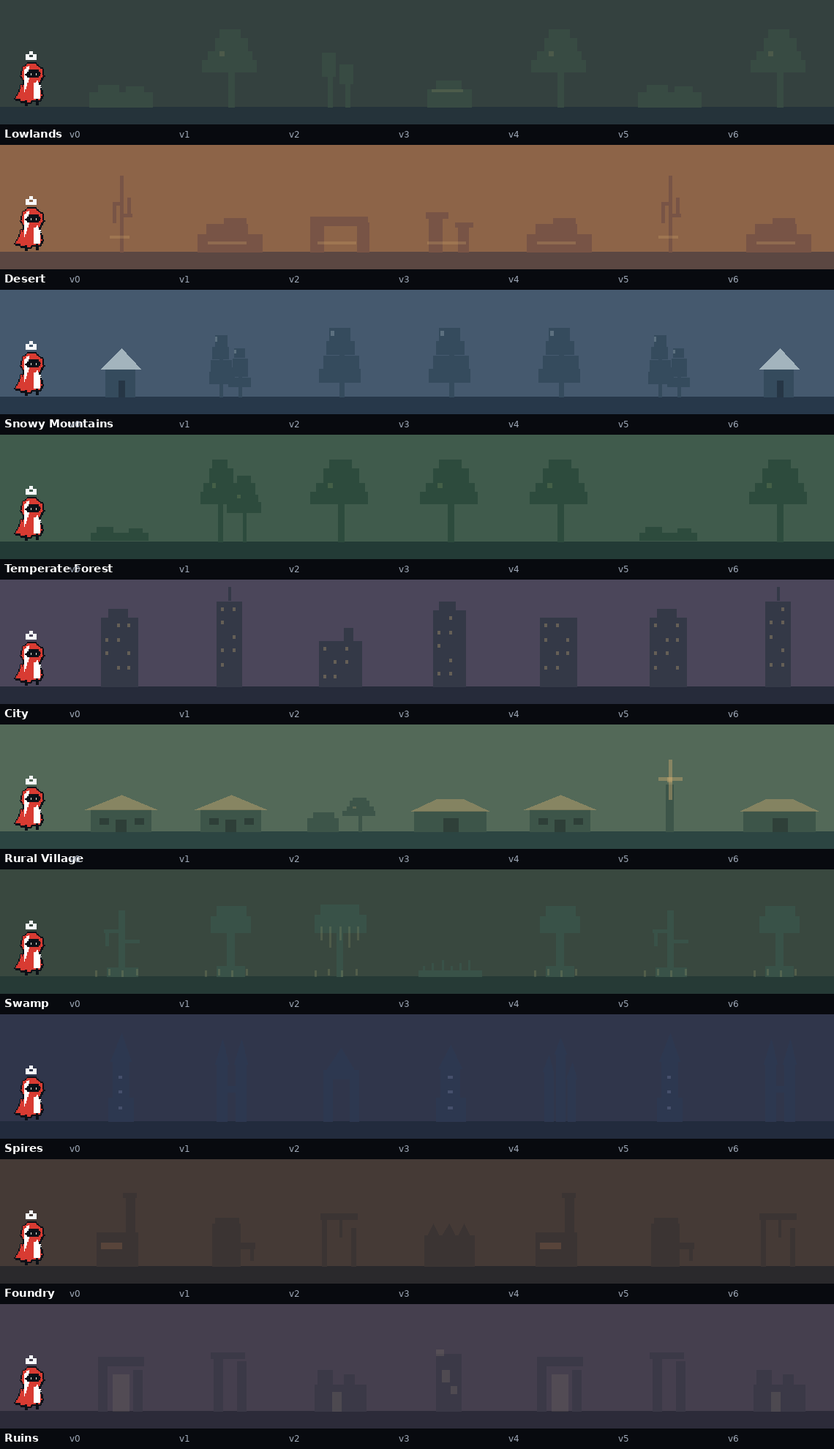
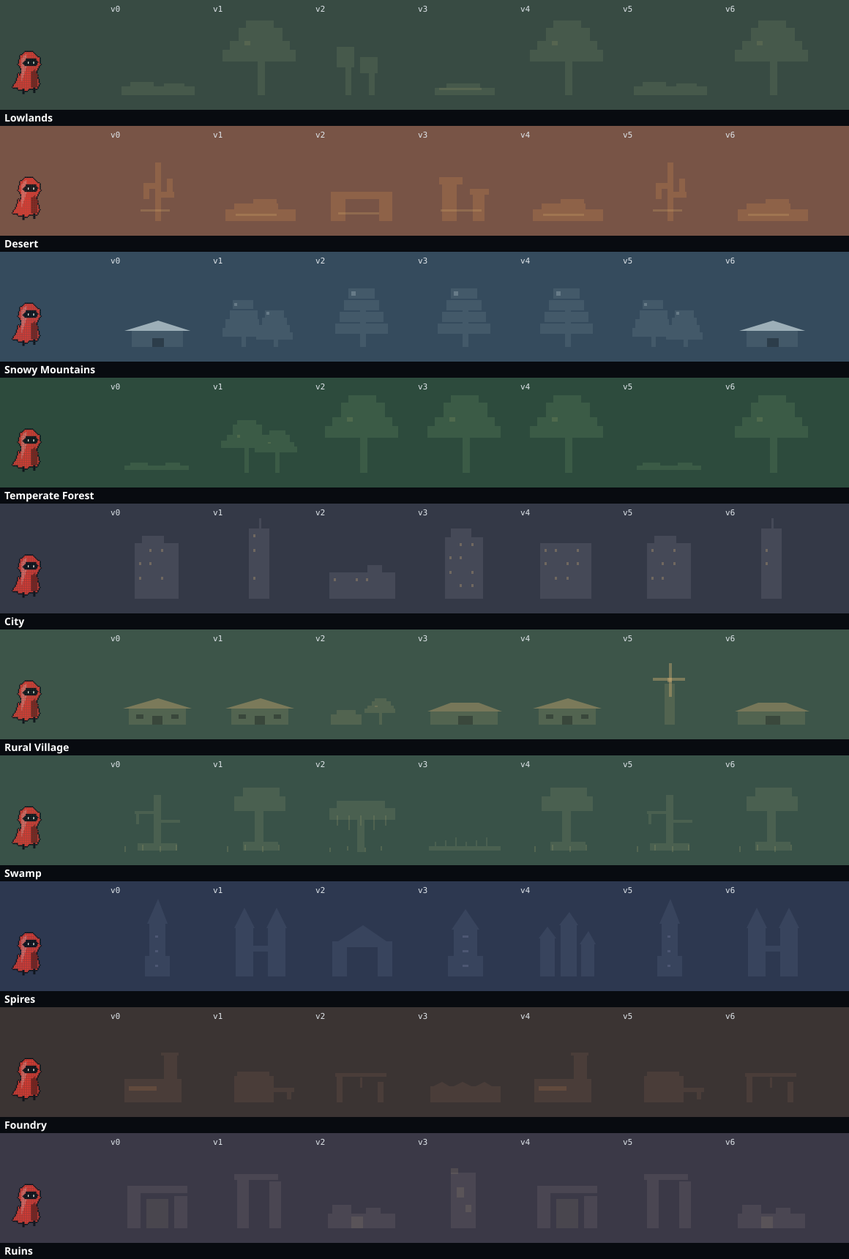
Refine biome asset scaling and placement
- replace independent width/height randomization with aspect-locked motif sizing
- use one uniform zoom/viewport scalar so assets cannot stretch across camera changes
- distribute scenery through jittered slots instead of unconstrained random clumps
- ground far landmarks behind ridge/foothill silhouettes
- tighten built-environment baselines while allowing subtle natural terrain jitter
- weight rare landmark variants such as windmills and chalets
- reduce repetitive Spires and Rural Village density
- regenerate renderer-derived biome scale and asset catalog sanity sheets
- keep mechanical biome profiles and terrain generation unchanged

diff --git a/components/biomeBackground.ts b/components/biomeBackground.ts
@@ -8,7 +8,7 @@ const RIDGE_SEGMENTS = 8;
 const NS_FAR=0x464152, NS_MID=0x4d4944, NS_NEAR=0x4e4541, NS_FORE=0x464f52;
 
 type Layer = 'far'|'mid'|'near'|'foreground';
-interface FeatureDescriptor { x:number; width:number; height:number; variant:number; offsetY:number; }
+interface FeatureDescriptor { x:number; scale:number; variant:number; yJitter:number; flipX:boolean; }
 interface BackgroundChunkDescriptor { chunkIndex:number; layer:Layer; ridge:number[]; features:FeatureDescriptor[]; }
 interface BackgroundDrawOptions { cameraCenterX:number; cameraCenterY:number; cameraScale:number; cssWidth:number; cssHeight:number; worldSeed:number; }
 
@@ -17,6 +17,25 @@ const namespaceForLayer=(layer:Layer)=>layer==='far'?NS_FAR:layer==='mid'?NS_MID
 const dominantBiome=(sample:BiomeSample):BiomeId=>sample.secondary&&sample.blend>=.5?sample.secondary:sample.primary;
 const snap=(v:number,g=2)=>Math.round(v/g)*g;
 function rgba(hex:string,alpha:number){const h=hex.replace('#','');const r=parseInt(h.slice(0,2),16),g=parseInt(h.slice(2,4),16),b=parseInt(h.slice(4,6),16);return `rgba(${r}, ${g}, ${b}, ${alpha})`;}
+
+function visualVariantForBiome(biome:BiomeId,layer:Layer,hash:number):number{
+  // Landmark variants are intentionally weighted. Rare silhouettes (windmills, chalets, etc.)
+  // should punctuate a biome rather than repeat every few hundred pixels.
+  if(biome==='rural-village'&&layer!=='far'){
+    const choices=[0,1,2,3,4,6,0,1,2,3,4,6,0,1,2,5];
+    return choices[hash%choices.length];
+  }
+  if(biome==='snowy-mountains'&&layer!=='far'){
+    const choices=[1,2,3,4,5,1,2,3,4,5,6,2];
+    return choices[hash%choices.length];
+  }
+  if(biome==='desert'&&layer!=='far'){
+    const choices=[0,1,2,3,4,1,2,3,4,1];
+    return choices[hash%choices.length];
+  }
+  return hash%7;
+}
+
 function drawPixelDisc(ctx:CanvasRenderingContext2D,cx:number,cy:number,r:number,color:string){ctx.fillStyle=color;const rows=[.62,.86,1,1,.86,.62];for(let i=0;i<rows.length;i++){const hh=Math.max(2,Math.round((r*2)/rows.length)),ww=Math.round(r*2*rows[i]),yy=Math.round(cy-r+i*hh);ctx.fillRect(snap(cx-ww*.5),snap(yy),snap(ww),hh+1);}}
 
 export class BiomeBackgroundCache {
@@ -33,12 +52,32 @@ export class BiomeBackgroundCache {
   private generateChunk(layer:Layer,chunkIndex:number,seed:number):BackgroundChunkDescriptor{
     const namespace=namespaceForLayer(layer),ridge:number[]=[];
     for(let i=0;i<=RIDGE_SEGMENTS;i++){const globalNode=chunkIndex*RIDGE_SEGMENTS+i;ridge.push(.28+biomeRandom01(seed,namespace^0x726964,globalNode)*.58);}
-    const centerX=(chunkIndex+.5)*BACKGROUND_CHUNK_WIDTH,sample=getBiomeAtX(centerX,seed),biome=VISUAL_BIOMES[dominantBiome(sample)];
+    const centerX=(chunkIndex+.5)*BACKGROUND_CHUNK_WIDTH,sample=getBiomeAtX(centerX,seed),biomeId=dominantBiome(sample),biome=VISUAL_BIOMES[biomeId];
     const density=layer==='far'?biome.farDensity:layer==='mid'?biome.midDensity:layer==='near'?biome.nearDensity:biome.nearDensity*.55;
-    const minFeatures=layer==='far'?1:layer==='foreground'?1:2,maxFeatures=layer==='far'?3:layer==='foreground'?4:7;
-    const count=minFeatures+Math.floor(density*(maxFeatures-minFeatures)+biomeRandom01(seed,namespace,chunkIndex)*2);
+    const minFeatures=layer==='far'?0:layer==='foreground'?0:1;
+    const maxFeatures=layer==='far'?2:layer==='mid'?5:layer==='near'?4:2;
+    const count=Math.max(minFeatures,Math.min(maxFeatures,Math.round(
+      minFeatures+density*(maxFeatures-minFeatures)+(biomeRandom01(seed,namespace,chunkIndex)-.5)*.9
+    )));
     const features:FeatureDescriptor[]=[];
-    for(let i=0;i<count;i++){const k=chunkIndex*37+i;features.push({x:biomeRandom01(seed,namespace^0x78,k),width:.045+biomeRandom01(seed,namespace^0x77,k)*(layer==='near'?.13:.09),height:.16+biomeRandom01(seed,namespace^0x68,k)*(layer==='far'?.34:.5),variant:biomeHash(seed,namespace^0x76,k)%7,offsetY:(biomeRandom01(seed,namespace^0x79,k)-.5)*.08});}
+    // Place assets in jittered slots instead of independent random X positions. This keeps the
+    // procedural look while avoiding the accidental clumps/near-duplicates that made otherwise
+    // good silhouettes read like stretched stamps. Size is one scalar only; aspect ratio lives in
+    // the asset profile below and is therefore never randomized independently.
+    for(let i=0;i<count;i++){
+      const k=chunkIndex*37+i;
+      const slotCenter=(i+.5)/count;
+      const slotJitter=(biomeRandom01(seed,namespace^0x78,k)-.5)*Math.min(.7/count,.16);
+      const x=Math.max(.06,Math.min(.94,slotCenter+slotJitter));
+      const featureBiome=dominantBiome(getBiomeAtX(chunkIndex*BACKGROUND_CHUNK_WIDTH+x*BACKGROUND_CHUNK_WIDTH,seed));
+      features.push({
+        x,
+        scale:.86+biomeRandom01(seed,namespace^0x77,k)*.28,
+        variant:visualVariantForBiome(featureBiome,layer,biomeHash(seed,namespace^0x76,k)),
+        yJitter:biomeRandom01(seed,namespace^0x79,k)*2-1,
+        flipX:(biomeHash(seed,namespace^0x6d6972,k)&1)===1,
+      });
+    }
     return {chunkIndex,layer,ridge,features};
   }
 }
@@ -529,49 +568,115 @@ function drawSwamp(
   }
 }
 
-function scaleFeatureForBiome(
-  biome: BiomeId,
-  layer: Layer,
-  variant: number,
-  width: number,
-  height: number,
-): { width: number; height: number } {
-  let w = width, h = height;
-  if (biome === 'desert') {
-    if (layer === 'far') { w *= 2.55; h *= 0.82; }
-    else if (variant % 5 === 0) { w *= 0.78; h *= 1.22; }
-    else { w *= 1.62; h *= 0.78; }
-  } else if (biome === 'snowy-mountains') {
-    if (layer === 'far') { w *= 2.35; h *= 1.26; }
-    else { w *= 1.02; h *= 1.12; }
-  } else if (biome === 'temperate-forest') {
-    if (layer === 'far') { w *= 1.65; h *= 0.7; }
-    else if (variant % 5 === 0) { w *= 1.55; h *= 0.64; }
-    else { w *= 1.38; h *= 1.0; }
-  } else if (biome === 'city') {
-    w *= layer === 'far' ? 1.05 : 1.12;
-    h *= layer === 'far' ? 1.22 : 1.16;
-  } else if (biome === 'rural-village') {
-    if (layer === 'far') { w *= 1.75; h *= 0.7; }
-    else if (variant % 7 === 5) { w *= 1.15; h *= 1.1; }
-    else { w *= 1.82; h *= 0.76; }
-  } else if (biome === 'swamp') {
-    if (variant % 5 === 3) { w *= 1.55; h *= 0.58; }
-    else { w *= 1.35; h *= layer === 'far' ? 0.86 : 1.05; }
-  } else if (biome === 'lowlands') {
-    if (variant % 5 === 0) { w *= 1.5; h *= 0.66; }
-    else { w *= 1.28; h *= 0.94; }
-  } else if (biome === 'spires') {
-    w *= layer === 'far' ? 1.05 : 1.0;
-    h *= layer === 'far' ? 1.0 : 1.08;
-  } else if (biome === 'foundry') {
-    w *= 1.25; h *= layer === 'far' ? 0.92 : 0.98;
-  } else if (biome === 'ruins') {
-    w *= 1.3; h *= layer === 'far' ? 0.86 : 0.96;
+interface AssetLayout {
+  /** Natural width / height of the motif. Width is always derived from height to prevent stretch. */
+  aspect: number;
+  /** Pixel height at 1280×720 and cameraScale 0.8 for the midground layer. */
+  height: number;
+  /** Small per-motif grounding adjustment in units of its rendered height. */
+  groundOffset?: number;
+}
+
+function assetLayoutForBiome(biome: BiomeId, layer: Layer, variant: number): AssetLayout {
+  const kind5=variant%5, kind4=variant%4, kind7=variant%7;
+  let layout:AssetLayout;
+  if(biome==='lowlands'){
+    if(layer==='far') layout={aspect:2.7,height:62};
+    else if(kind5===0) layout={aspect:2.55,height:66};
+    else if(kind5===2) layout={aspect:1.15,height:82};
+    else if(kind5===3) layout={aspect:2.35,height:56};
+    else layout={aspect:1.05,height:92};
+  }else if(biome==='spires'){
+    if(kind5===1&&layer!=='far') layout={aspect:1.05,height:108};
+    else if(kind5===2&&layer!=='far') layout={aspect:1.28,height:94};
+    else if(kind5===4&&layer!=='far') layout={aspect:1.16,height:102};
+    else layout={aspect:kind5===3?.72:.58,height:kind5===3?100:122};
+  }else if(biome==='foundry'){
+    if(kind4===0) layout={aspect:1.45,height:86};
+    else if(kind4===1) layout={aspect:1.58,height:72};
+    else if(kind4===2&&layer!=='far') layout={aspect:1.8,height:78};
+    else layout={aspect:1.95,height:84};
+  }else if(biome==='ruins'){
+    if(kind4===0) layout={aspect:1.25,height:82};
+    else if(kind4===1) layout={aspect:1.08,height:86};
+    else if(kind4===2) layout={aspect:1.78,height:86};
+    else layout={aspect:.78,height:88};
+  }else if(biome==='desert'){
+    if(layer==='far') layout={aspect:2.65,height:70};
+    else if(kind5===0) layout={aspect:.72,height:84};
+    else if(kind5===1||kind5===4) layout={aspect:1.9,height:74};
+    else if(kind5===2) layout={aspect:1.45,height:80};
+    else layout={aspect:1.08,height:84};
+  }else if(biome==='snowy-mountains'){
+    if(layer==='far') layout={aspect:1.72,height:180};
+    else if(variant%6===0) layout={aspect:1.55,height:86};
+    else if(variant%4===1) layout={aspect:1.15,height:94};
+    else layout={aspect:.76,height:102};
+  }else if(biome==='temperate-forest'){
+    if(layer==='far') layout={aspect:2.75,height:68};
+    else if(kind5===0) layout={aspect:2.15,height:76};
+    else if(variant%4===1) layout={aspect:1.48,height:98};
+    else layout={aspect:1.02,height:104};
+  }else if(biome==='city'){
+    if(kind5===0) layout={aspect:.78,height:122};
+    else if(kind5===1) layout={aspect:.52,height:148};
+    else if(kind5===2) layout={aspect:1.45,height:78};
+    else if(kind5===3) layout={aspect:.8,height:132};
+    else layout={aspect:.92,height:112};
+  }else if(biome==='rural-village'){
+    if(kind7===5&&layer!=='far') layout={aspect:.95,height:104};
+    else if(kind7===3||kind7===6) layout={aspect:1.85,height:90};
+    else if(kind7===2&&layer!=='far') layout={aspect:1.65,height:86};
+    else layout={aspect:1.7,height:84};
+  }else{
+    if(kind5===0) layout={aspect:1.08,height:90};
+    else if(kind5===1||kind5===4) layout={aspect:1.02,height:96};
+    else if(kind5===2) layout={aspect:1.32,height:90};
+    else layout={aspect:2.1,height:78};
   }
-  const minW = layer === 'far' ? 18 : layer === 'mid' ? 24 : layer === 'near' ? 30 : 28;
-  const minH = layer === 'far' ? 24 : layer === 'mid' ? 30 : layer === 'near' ? 34 : 32;
-  return { width: Math.max(minW, w), height: Math.max(minH, h) };
+
+  // Distance changes apparent size uniformly. Aspect ratio remains untouched.
+  const layerScale=layer==='far'?.72:layer==='mid'?1:layer==='near'?1.18:1.34;
+  return {...layout,height:layout.height*layerScale};
+}
+
+function featureDimensions(
+  biome:BiomeId,
+  layer:Layer,
+  variant:number,
+  scalar:number,
+  cssWidth:number,
+  cssHeight:number,
+  cameraScale:number,
+):{width:number;height:number;groundOffset:number}{
+  const layout=assetLayoutForBiome(biome,layer,variant);
+  const viewportScale=Math.max(.68,Math.min(1.45,Math.min(cssWidth/1280,cssHeight/720)));
+  // Backgrounds should follow world zoom, but clamping prevents pair-framing extremes from making
+  // landmarks microscopic or screen-filling. Both axes use this exact same scalar.
+  const zoomScale=Math.max(.58,Math.min(1.7,cameraScale/.8));
+  const height=Math.max(18,layout.height*scalar*viewportScale*zoomScale);
+  return {width:height*layout.aspect,height,groundOffset:(layout.groundOffset||0)*height};
+}
+
+function drawPlacedFeature(
+  ctx:CanvasRenderingContext2D,
+  biome:BiomeId,
+  centerX:number,
+  baseY:number,
+  width:number,
+  height:number,
+  color:string,
+  detail:string,
+  variant:number,
+  layer:Layer,
+  flipX=false,
+){
+  if(!flipX){drawFeatureForBiome(ctx,biome,centerX-width*.5,baseY,width,height,color,detail,variant,layer);return;}
+  ctx.save();
+  ctx.translate(centerX*2,0);
+  ctx.scale(-1,1);
+  drawFeatureForBiome(ctx,biome,centerX-width*.5,baseY,width,height,color,detail,variant,layer);
+  ctx.restore();
 }
 
 function drawFeatureForBiome(
@@ -611,19 +716,12 @@ export function drawBiomeAssetPreview(
   color: string,
   detail: string,
 ): void {
-  const scaled = scaleFeatureForBiome(biome, layer, variant, baseWidth, baseHeight);
-  drawFeatureForBiome(
-    ctx,
-    biome,
-    centerX - scaled.width * 0.5,
-    baseY,
-    scaled.width,
-    scaled.height,
-    color,
-    detail,
-    variant,
-    layer,
-  );
+  // Preview callers provide a bounding box; fit the motif into it without changing its natural
+  // aspect ratio so the catalog is representative of gameplay rendering.
+  const layout=assetLayoutForBiome(biome,layer,variant);
+  const height=Math.min(baseHeight,baseWidth/layout.aspect);
+  const width=height*layout.aspect;
+  drawFeatureForBiome(ctx,biome,centerX-width*.5,baseY,width,height,color,detail,variant,layer);
 }
 
 function drawNaturalRidge(
@@ -667,19 +765,32 @@ function drawNaturalRidge(
   }
 }
 
+function placementJitterForBiome(biome:BiomeId,layer:'far'|'mid'|'near',viewportScale:number):number{
+  const built=biome==='city'||biome==='foundry'||biome==='spires'||biome==='ruins';
+  const base=built
+    ? (layer==='far'?2:layer==='mid'?3:4)
+    : biome==='rural-village'
+      ? (layer==='far'?3:layer==='mid'?5:7)
+      : (layer==='far'?4:layer==='mid'?6:9);
+  return base*viewportScale;
+}
+
 function drawLayer(ctx:CanvasRenderingContext2D,cache:BiomeBackgroundCache,layer:'far'|'mid'|'near',o:BackgroundDrawOptions){
   const parallax=parallaxByLayer[layer],{cameraCenterX,cameraCenterY,cameraScale,cssWidth,cssHeight,worldSeed}=o,halfWorldVisible=cssWidth*.62/Math.max(.0001,cameraScale*parallax),minChunk=Math.floor((cameraCenterX-halfWorldVisible)/BACKGROUND_CHUNK_WIDTH)-1,maxChunk=Math.floor((cameraCenterX+halfWorldVisible)/BACKGROUND_CHUNK_WIDTH)+1;
-  const verticalParallax=layer==='far'?.045:layer==='mid'?.09:.16,baselineRatio=layer==='far'?.7:layer==='mid'?.76:.82,baselineY=cssHeight*baselineRatio+(WORLD_REF_HEIGHT*.64-cameraCenterY)*cameraScale*verticalParallax,layerAlpha=layer==='far'?.78:layer==='mid'?.9:.94;
+  const verticalParallax=layer==='far'?.045:layer==='mid'?.09:.16,baselineRatio=layer==='far'?.72:layer==='mid'?.79:.85,baselineY=cssHeight*baselineRatio+(WORLD_REF_HEIGHT*.64-cameraCenterY)*cameraScale*verticalParallax,layerAlpha=layer==='far'?.78:layer==='mid'?.9:.94;
+  const viewportScale=Math.max(.68,Math.min(1.45,Math.min(cssWidth/1280,cssHeight/720)));
   ctx.save();ctx.globalAlpha=layerAlpha;
   for(let chunkIndex=minChunk;chunkIndex<=maxChunk;chunkIndex++){
-    const chunk=cache.getChunk(layer,chunkIndex,worldSeed),chunkWorldX=chunkIndex*BACKGROUND_CHUNK_WIDTH,screenStartX=cssWidth*.5+(chunkWorldX-cameraCenterX)*cameraScale*parallax,screenChunkWidth=BACKGROUND_CHUNK_WIDTH*cameraScale*parallax;if(screenStartX>cssWidth+120||screenStartX+screenChunkWidth<-120)continue;
+    const chunk=cache.getChunk(layer,chunkIndex,worldSeed),chunkWorldX=chunkIndex*BACKGROUND_CHUNK_WIDTH,screenStartX=cssWidth*.5+(chunkWorldX-cameraCenterX)*cameraScale*parallax,screenChunkWidth=BACKGROUND_CHUNK_WIDTH*cameraScale*parallax;if(screenStartX>cssWidth+180||screenStartX+screenChunkWidth<-180)continue;
     const chunkSample=getBiomeAtX(chunkWorldX+BACKGROUND_CHUNK_WIDTH*.5,worldSeed),chunkPalette=paletteForBiomeSample(chunkSample),chunkBiome=dominantBiome(chunkSample);
-    if(layer==='far')drawNaturalRidge(ctx,chunkBiome,chunk,screenStartX,screenChunkWidth,baselineY,cssHeight,chunkPalette.far,chunkPalette.detail);
     for(let featureIndex=0;featureIndex<chunk.features.length;featureIndex++){
       if(cameraScale<.55&&layer==='far')continue;if(cameraScale<.48&&layer==='mid'&&featureIndex%2===1)continue;
-      const feature=chunk.features[featureIndex],featureWorldX=chunkWorldX+feature.x*BACKGROUND_CHUNK_WIDTH,screenX=cssWidth*.5+(featureWorldX-cameraCenterX)*cameraScale*parallax,featureSample=getBiomeAtX(featureWorldX,worldSeed),featurePalette=paletteForBiomeSample(featureSample),biome=dominantBiome(featureSample),baseWidth=Math.max(12,BACKGROUND_CHUNK_WIDTH*feature.width*cameraScale*parallax*(layer==='near'?1.2:1)),heightScale=layer==='far'?.38:layer==='mid'?.64:.82,baseHeight=cssHeight*feature.height*heightScale,scaled=scaleFeatureForBiome(biome,layer,feature.variant,baseWidth,baseHeight),width=scaled.width,height=scaled.height,baseY=baselineY+cssHeight*feature.offsetY,color=layer==='far'?featurePalette.far:layer==='mid'?featurePalette.mid:featurePalette.near;
-      drawFeatureForBiome(ctx,biome,screenX-width*.5,baseY,width,height,color,featurePalette.detail,feature.variant,layer);
+      const feature=chunk.features[featureIndex],featureWorldX=chunkWorldX+feature.x*BACKGROUND_CHUNK_WIDTH,screenX=cssWidth*.5+(featureWorldX-cameraCenterX)*cameraScale*parallax,featureSample=getBiomeAtX(featureWorldX,worldSeed),featurePalette=paletteForBiomeSample(featureSample),biome=dominantBiome(featureSample),dims=featureDimensions(biome,layer,feature.variant,feature.scale,cssWidth,cssHeight,cameraScale),baseY=baselineY+feature.yJitter*placementJitterForBiome(biome,layer,viewportScale)+dims.groundOffset,color=layer==='far'?featurePalette.far:layer==='mid'?featurePalette.mid:featurePalette.near;
+      drawPlacedFeature(ctx,biome,screenX,baseY,dims.width,dims.height,color,featurePalette.detail,feature.variant,layer,feature.flipX);
     }
+    // Far landmarks sit *behind* their ridge/foothill layer. Occluding their lower edge makes
+    // mountains, trees, mesas and distant settlements feel grounded instead of pasted on top.
+    if(layer==='far')drawNaturalRidge(ctx,chunkBiome,chunk,screenStartX,screenChunkWidth,baselineY,cssHeight,chunkPalette.far,chunkPalette.detail);
   }
   ctx.restore();
 }
@@ -701,4 +812,18 @@ function drawAmbientDetails(ctx:CanvasRenderingContext2D,o:BackgroundDrawOptions
 
 export function drawBiomeBackground(ctx:CanvasRenderingContext2D,cache:BiomeBackgroundCache,o:BackgroundDrawOptions){ctx.save();ctx.imageSmoothingEnabled=false;drawSkyBands(ctx,o);drawLayer(ctx,cache,'far',o);drawLayer(ctx,cache,'mid',o);drawLayer(ctx,cache,'near',o);drawAmbientDetails(ctx,o);const p=paletteForBiomeSample(getBiomeAtX(o.cameraCenterX,o.worldSeed));ctx.fillStyle=rgba(p.haze,.045);ctx.fillRect(0,o.cssHeight*.42,o.cssWidth,o.cssHeight*.58);ctx.restore();}
 
-export function drawBiomeForeground(ctx:CanvasRenderingContext2D,cache:BiomeBackgroundCache,o:BackgroundDrawOptions){const {cssWidth,cssHeight,cameraCenterX,cameraScale,worldSeed}=o;if(cameraScale<.5)return;const layer:Layer='foreground',parallax=.88,halfWorldVisible=cssWidth*.55/Math.max(.0001,cameraScale*parallax),minChunk=Math.floor((cameraCenterX-halfWorldVisible)/BACKGROUND_CHUNK_WIDTH)-1,maxChunk=Math.floor((cameraCenterX+halfWorldVisible)/BACKGROUND_CHUNK_WIDTH)+1;ctx.save();ctx.globalAlpha=.18;for(let chunkIndex=minChunk;chunkIndex<=maxChunk;chunkIndex++){const chunk=cache.getChunk(layer,chunkIndex,worldSeed),chunkWorldX=chunkIndex*BACKGROUND_CHUNK_WIDTH;for(const feature of chunk.features){const featureWorldX=chunkWorldX+feature.x*BACKGROUND_CHUNK_WIDTH,x=cssWidth*.5+(featureWorldX-cameraCenterX)*cameraScale*parallax;if(x>cssWidth*.2&&x<cssWidth*.8)continue;const sample=getBiomeAtX(featureWorldX,worldSeed),palette=paletteForBiomeSample(sample),biome=dominantBiome(sample),baseWidth=Math.max(18,feature.width*420*cameraScale),baseHeight=Math.max(30,feature.height*cssHeight*.34),scaled=scaleFeatureForBiome(biome,layer,feature.variant,baseWidth,baseHeight),width=scaled.width,height=scaled.height;drawFeatureForBiome(ctx,biome,x-width*.5,cssHeight+8,width,height,palette.near,palette.detail,feature.variant,layer);}}ctx.restore();}
+export function drawBiomeForeground(ctx:CanvasRenderingContext2D,cache:BiomeBackgroundCache,o:BackgroundDrawOptions){
+  const {cssWidth,cssHeight,cameraCenterX,cameraScale,worldSeed}=o;if(cameraScale<.5)return;
+  const layer:Layer='foreground',parallax=.88,halfWorldVisible=cssWidth*.55/Math.max(.0001,cameraScale*parallax),minChunk=Math.floor((cameraCenterX-halfWorldVisible)/BACKGROUND_CHUNK_WIDTH)-1,maxChunk=Math.floor((cameraCenterX+halfWorldVisible)/BACKGROUND_CHUNK_WIDTH)+1;
+  ctx.save();ctx.globalAlpha=.16;
+  for(let chunkIndex=minChunk;chunkIndex<=maxChunk;chunkIndex++){
+    const chunk=cache.getChunk(layer,chunkIndex,worldSeed),chunkWorldX=chunkIndex*BACKGROUND_CHUNK_WIDTH;
+    for(const feature of chunk.features){
+      const featureWorldX=chunkWorldX+feature.x*BACKGROUND_CHUNK_WIDTH,x=cssWidth*.5+(featureWorldX-cameraCenterX)*cameraScale*parallax;
+      if(x>cssWidth*.18&&x<cssWidth*.82)continue;
+      const sample=getBiomeAtX(featureWorldX,worldSeed),palette=paletteForBiomeSample(sample),biome=dominantBiome(sample),dims=featureDimensions(biome,layer,feature.variant,feature.scale*.92,cssWidth,cssHeight,cameraScale);
+      drawPlacedFeature(ctx,biome,x,cssHeight+4,dims.width,dims.height,palette.near,palette.detail,feature.variant,layer,feature.flipX);
+    }
+  }
+  ctx.restore();
+}

diff --git a/world/biomes.ts b/world/biomes.ts
@@ -4,7 +4,7 @@ import type { BiomeId, BiomeSample, BiomeVisualStamp, PlatformState, TerrainRunt
 export const DEFAULT_BIOME_WORLD_SEED = 0x54414731;
 export const BIOME_REGION_LENGTH = 12_000;
 export const BIOME_TRANSITION_LENGTH = 2_000;
-export const BIOME_VISUAL_VERSION = 3;
+export const BIOME_VISUAL_VERSION = 4;
 export const BIOME_TERRAIN_VERSION = 2;
 export const WORLD_GEN_VERSION = 2;
 
@@ -60,14 +60,14 @@ export const TERRAIN_BIOME_PROFILES: Record<BiomeId, TerrainBiomeProfile> = {
 
 export const VISUAL_BIOMES: Record<BiomeId, VisualBiomeDefinition> = {
   lowlands: { id: 'lowlands', label: 'Lowlands', palette: { skyTop:'#111827', skyBottom:'#34413f', haze:'#55645b', far:'#25333a', mid:'#384b43', near:'#46594b', detail:'#8a8b61', platformTop:'#69745f', platformFace:'#4d5a4e', platformShadow:'#2c3732', motionAccent:'#d5c86d' }, farDensity:.65, midDensity:.58, nearDensity:.42 },
-  spires: { id: 'spires', label: 'Spires', palette: { skyTop:'#101422', skyBottom:'#30364b', haze:'#555d78', far:'#222b3d', mid:'#2d3850', near:'#38445d', detail:'#777da1', platformTop:'#66718b', platformFace:'#4b556d', platformShadow:'#2a3142', motionAccent:'#9dd7e8' }, farDensity:.88, midDensity:.66, nearDensity:.48 },
+  spires: { id: 'spires', label: 'Spires', palette: { skyTop:'#101422', skyBottom:'#30364b', haze:'#555d78', far:'#222b3d', mid:'#2d3850', near:'#38445d', detail:'#777da1', platformTop:'#66718b', platformFace:'#4b556d', platformShadow:'#2a3142', motionAccent:'#9dd7e8' }, farDensity:.72, midDensity:.58, nearDensity:.42 },
   foundry: { id: 'foundry', label: 'Foundry', palette: { skyTop:'#17171c', skyBottom:'#453a36', haze:'#6a5850', far:'#2a292c', mid:'#3b3433', near:'#4a3d39', detail:'#9b6949', platformTop:'#705d52', platformFace:'#514640', platformShadow:'#2e2a29', motionAccent:'#e6a34c' }, farDensity:.76, midDensity:.9, nearDensity:.7 },
   ruins: { id: 'ruins', label: 'Ruins', palette: { skyTop:'#151522', skyBottom:'#453f4e', haze:'#6c6572', far:'#2c2b39', mid:'#3b3947', near:'#4a4652', detail:'#8e826f', platformTop:'#756e72', platformFace:'#565158', platformShadow:'#302e35', motionAccent:'#c7b58a' }, farDensity:.7, midDensity:.72, nearDensity:.58 },
   desert: { id: 'desert', label: 'Desert', palette: { skyTop:'#30243a', skyBottom:'#8d6448', haze:'#b58a63', far:'#5b4742', mid:'#785446', near:'#8e6248', detail:'#d8b06d', platformTop:'#c49460', platformFace:'#8e674e', platformShadow:'#513f3a', motionAccent:'#f0d57a' }, farDensity:.46, midDensity:.36, nearDensity:.26 },
   'snowy-mountains': { id:'snowy-mountains', label:'Snowy Mountains', palette: { skyTop:'#101a2c', skyBottom:'#45596e', haze:'#8da8b7', far:'#27384a', mid:'#354b5d', near:'#435969', detail:'#d8e7ea', platformTop:'#d0dde0', platformFace:'#657785', platformShadow:'#334351', motionAccent:'#bdeeff' }, farDensity:.76, midDensity:.48, nearDensity:.36 },
   'temperate-forest': { id:'temperate-forest', label:'Temperate Forest', palette: { skyTop:'#0f2022', skyBottom:'#405b4c', haze:'#6e8370', far:'#233b36', mid:'#2d4b3d', near:'#3b5b46', detail:'#8e9d65', platformTop:'#718262', platformFace:'#4d614b', platformShadow:'#293b34', motionAccent:'#d6d78a' }, farDensity:.62, midDensity:.84, nearDensity:.74 },
   city: { id:'city', label:'City', palette: { skyTop:'#111528', skyBottom:'#4b465a', haze:'#766f7f', far:'#262b3a', mid:'#343947', near:'#454957', detail:'#b69d6f', platformTop:'#79808a', platformFace:'#585e68', platformShadow:'#30343c', motionAccent:'#ffd166' }, farDensity:.84, midDensity:.88, nearDensity:.68 },
-  'rural-village': { id:'rural-village', label:'Rural Village', palette: { skyTop:'#152333', skyBottom:'#536958', haze:'#83927a', far:'#2c4542', mid:'#3d5549', near:'#526450', detail:'#c4a56d', platformTop:'#8b8068', platformFace:'#655b4c', platformShadow:'#393832', motionAccent:'#e7ca82' }, farDensity:.46, midDensity:.58, nearDensity:.46 },
+  'rural-village': { id:'rural-village', label:'Rural Village', palette: { skyTop:'#152333', skyBottom:'#536958', haze:'#83927a', far:'#2c4542', mid:'#3d5549', near:'#526450', detail:'#c4a56d', platformTop:'#8b8068', platformFace:'#655b4c', platformShadow:'#393832', motionAccent:'#e7ca82' }, farDensity:.4, midDensity:.48, nearDensity:.38 },
   swamp: { id:'swamp', label:'Swamp', palette: { skyTop:'#101c22', skyBottom:'#39483f', haze:'#617162', far:'#263a36', mid:'#395248', near:'#4a6050', detail:'#969768', platformTop:'#65715a', platformFace:'#485646', platformShadow:'#28352f', motionAccent:'#b9c86a' }, farDensity:.56, midDensity:.8, nearDensity:.84 },
 };
 

diff --git a/docs/BIOMES.md b/docs/BIOMES.md
@@ -43,4 +43,10 @@ The asset pass deliberately uses a hierarchy of large landmarks and smaller supp
 
 Platform materials use similarly distinct shape languages while keeping the physical top edge consistent: turf/fieldstone, sandstone strata, snow-capped stone, moss/root seams, concrete expansion joints, timber boards, rot/moss, industrial plate/rivets, dressed stone and irregular masonry respectively.
 
-`biome_visual_sanity_check.png` is generated from recorded draw operations from the actual renderer. The sheet includes representative active terrain-profile proportions and the real agent sprites so platform/scenery scale and agent contrast can be checked together. `biome_asset_catalog.png` isolates the seven deterministic midground variants for every biome beside an agent-sized reference, and `biome_platform_material_catalog.png` compares normal/branch/merge-moving platform materials. These images are documentation only and are not loaded by the game.
+### Asset scale and placement
+
+Scenery descriptors store **one size scalar**, never independent random width and height. Each motif has a hand-tuned intrinsic aspect ratio and nominal height, so camera zoom, viewport shape and parallax depth can only scale it uniformly. This removes the previous stretching/squashing failure mode. The same uniform zoom scalar is applied to both axes and clamped only at extreme pair-framing zooms.
+
+Within each background chunk, features occupy deterministic jittered slots rather than unconstrained random X positions. Natural biomes allow a little more baseline variation than City/Foundry/Spires/Ruins, while built silhouettes keep tighter foundations. Distant landmarks are rendered behind their ridge/foothill layer so their lower edges are naturally occluded rather than appearing pasted onto the horizon. Rare landmarks are weighted separately (for example Rural Village windmills and Snowy Mountain chalets), and asymmetric motifs may be deterministically mirrored to break repetition without inventing new geometry.
+
+`biome_visual_sanity_check.png` is generated from recorded draw operations from the actual current background renderer and overlays the real current agent sprites at gameplay scale, specifically to check relative landmark size, grounding and readability. `biome_asset_catalog.png` isolates the seven deterministic midground variants beside the same agent reference using aspect-preserving preview fitting. `biome_platform_material_catalog.png` compares normal/branch/merge-moving platform materials. These images are documentation only and are not loaded by the game.
